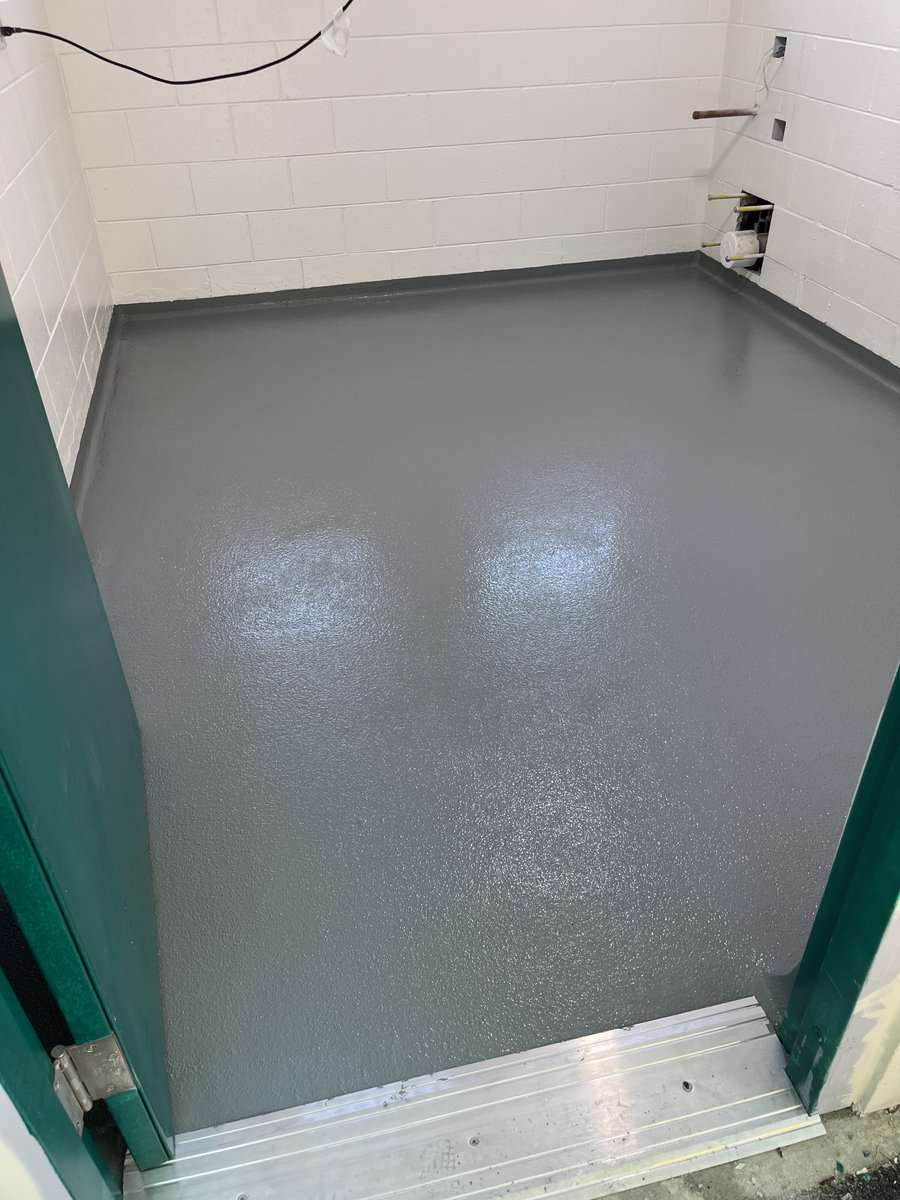
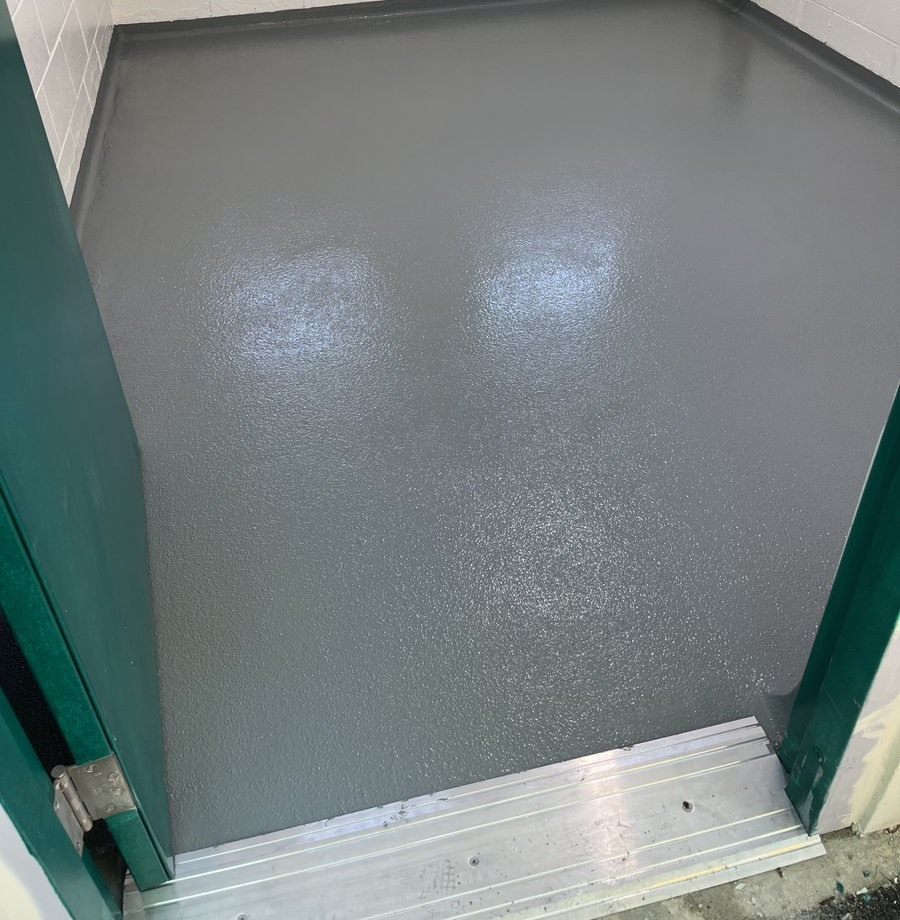
Crop project images for clean presentation, add Interactive Flooring System Spec Finder, and upgrade URL spec pre-fill

diff --git a/services.html b/services.html
@@ -80,10 +80,140 @@
                 From high-capacity manufacturing facilities and logistics warehouses to commercial showrooms and residential garages, LionStone Floors installs seamless resinous systems engineered for extreme compressive strength, chemical containment, and rapid return to service nationwide.
             </p>
             <div style="display: flex; justify-content: center; gap: 15px; flex-wrap: wrap;">
+                <a href="#system-spec-finder" class="btn-ls-primary" style="font-size: 13px !important; padding: 10px 22px !important;"><i class="fas fa-sliders-h"></i> Interactive Spec Finder</a>
                 <a href="#industrial-flooring" class="btn-ls-secondary" style="font-size: 13px !important; padding: 10px 20px !important;">Industrial Systems</a>
                 <a href="#commercial-specialty" class="btn-ls-secondary" style="font-size: 13px !important; padding: 10px 20px !important;">Logistics & Cleanrooms</a>
                 <a href="#commercial-retail" class="btn-ls-secondary" style="font-size: 13px !important; padding: 10px 20px !important;">Commercial Facilities</a>
                 <a href="#residential-garage" class="btn-ls-secondary" style="font-size: 13px !important; padding: 10px 20px !important;">Automotive & Garages</a>
+            </div>
+        </div>
+    </section>
+
+    <!-- Interactive Engineering & System Specification Selector -->
+    <section id="system-spec-finder" style="padding: 70px 20px; background: var(--ls-bg-light); border-bottom: 1px solid var(--ls-border);">
+        <div class="container" style="max-width: 1150px; margin: 0 auto; text-align: center;">
+            <span style="color: var(--ls-accent); font-size: 13px; font-weight: 800; text-transform: uppercase; letter-spacing: 0.1em;">Technical Specification Guide</span>
+            <h2 style="font-size: 36px; margin: 10px 0 14px 0;">Interactive Flooring System Spec Finder</h2>
+            <p style="color: var(--ls-text-muted); max-width: 700px; margin: 0 auto;">
+                Select your facility environment or operating conditions below to inspect recommended surface preparation profiles, build thickness, compressive ratings, and resinous chemistry.
+            </p>
+
+            <div class="spec-selector-card" id="lionstone-spec-selector">
+                <div class="spec-env-tabs">
+                    <button type="button" class="spec-env-btn active"
+                        data-title="Heavy Manufacturing & Forklift System"
+                        data-badge="Industrial High-Build Epoxy / Polyurethane"
+                        data-desc="Engineered for heavy manufacturing plants, warehousing aisles, and assembly lines subject to continuous forklift traffic, steel-wheel point loads, and heavy mechanical impact."
+                        data-prep="CSP 3–4 Planetary Diamond Grind / Shot Blast"
+                        data-thickness="40 – 125 mils (Multi-Coat High-Build)"
+                        data-compressive="10,500+ PSI (ASTM C579)"
+                        data-cure="24–36 Hours Full Mechanical Load"
+                        data-chemistry="100% Solids Cycloaliphatic Epoxy + Aliphatic Urethane Topcoat"
+                        data-apps="Manufacturing Plants, Distribution Hubs, Machine Shops, Assembly Bays">
+                        <i class="fas fa-industry"></i> Heavy Manufacturing & Forklift
+                    </button>
+
+                    <button type="button" class="spec-env-btn"
+                        data-title="Chemical, Acid & Pharma Containment"
+                        data-badge="Novolac Epoxy & Seamless Cleanroom System"
+                        data-desc="Formulated for extreme chemical resistance against concentrated acids, caustics, aviation hydraulic fluids, solvents, and continuous cleanroom sanitization protocols."
+                        data-prep="CSP 3–5 Diamond Grind + Trench / Joint Mending"
+                        data-thickness="60 – 180 mils + Integral 4&quot;–6&quot; Radius Coving"
+                        data-compressive="11,200+ PSI (High Cross-Link Density)"
+                        data-cure="24–48 Hours Chemical Immersion Ready"
+                        data-chemistry="100% Solids Novolac Epoxy + Chemical-Resistant Urethane"
+                        data-apps="Pharmaceutical Labs, Battery Plants, Chemical Storage, Aviation Hangars">
+                        <i class="fas fa-flask"></i> Chemical & Cleanroom
+                    </button>
+
+                    <button type="button" class="spec-env-btn"
+                        data-title="Food, Beverage & Thermal Shock (USDA/FDA)"
+                        data-badge="Cementitious Urethane Mortar System"
+                        data-desc="Monolithic, antimicrobial thermal-shock flooring built to withstand 212°F+ live steam washdowns, freeze-thaw cycling, organic acids, and heavy washdown slopes."
+                        data-prep="CSP 4–6 Heavy Shot Blast & Keyed Terminations"
+                        data-thickness="3/16&quot; to 3/8&quot; (187 – 375 mils) Slurry / Mortar"
+                        data-compressive="9,200+ PSI (Thermal Coefficient Matched to Concrete)"
+                        data-cure="8–16 Hours Rapid Return to Service"
+                        data-chemistry="Three-Component Cementitious Urethane + Quartz Broadcast"
+                        data-apps="Food & Beverage Processing, Cold Storage, Breweries, Commercial Commissaries">
+                        <i class="fas fa-temperature-low"></i> Thermal Shock & USDA/FDA
+                    </button>
+
+                    <button type="button" class="spec-env-btn"
+                        data-title="Commercial Retail, Stairwells & Concourses"
+                        data-badge="Architectural Quartz & Designer Metallic"
+                        data-desc="High-traction safety quartz systems for multi-tier commercial stairwells and exterior access ramps, plus seamless architectural metallic and terrazzo-flake finishes for showrooms."
+                        data-prep="CSP 2–3 Dustless HEPA Diamond Grind"
+                        data-thickness="35 – 80 mils + OSHA Safety Nosing / Anti-Slip Grit"
+                        data-compressive="9,500+ PSI High-Abrasion Wear Layer"
+                        data-cure="12–24 Hours Foot Traffic Ready"
+                        data-chemistry="100% Solids Epoxy Base + UV-Stable Polyaspartic Clearcoat"
+                        data-apps="Commercial Stair Towers, Retail Storefronts, Schools, Healthcare Corridors">
+                        <i class="fas fa-building"></i> Commercial & Stair Towers
+                    </button>
+
+                    <button type="button" class="spec-env-btn"
+                        data-title="Automotive Bays & Residential Garages"
+                        data-badge="Full-Broadcast Polyaspartic Flake System"
+                        data-desc="Showroom-grade full-refusal vinyl flake broadcast locked beneath UV-stable polyaspartic topcoats. Impervious to hot-tire pickup, road salts, automotive fluids, and impact."
+                        data-prep="CSP 2–3 Diamond Grind + Elastomeric Crack Fill"
+                        data-thickness="35 – 50 mils (100% Refusal Flake Broadcast)"
+                        data-compressive="8,800+ PSI / Zero Hot-Tire Delamination"
+                        data-cure="Rapid Cure — Light Foot Traffic in 4–6 Hours"
+                        data-chemistry="Moisture-Mitigating Primer + 100% UV-Stable Polyaspartic"
+                        data-apps="Residential Garages, Auto Dealership Service Bays, Fleet Maintenance Shops">
+                        <i class="fas fa-car"></i> Automotive & Garages
+                    </button>
+                </div>
+
+                <div class="spec-body-grid">
+                    <div>
+                        <span id="spec-sys-badge" style="display: inline-block; background: rgba(206, 3, 40, 0.1); color: var(--ls-accent); font-size: 12px; font-weight: 800; padding: 5px 12px; border-radius: 20px; text-transform: uppercase; letter-spacing: 0.05em; margin-bottom: 12px;">
+                            Industrial High-Build Epoxy / Polyurethane
+                        </span>
+                        <h3 id="spec-sys-title" style="font-size: 26px; margin: 0 0 14px 0; color: var(--ls-primary);">
+                            Heavy Manufacturing & Forklift System
+                        </h3>
+                        <p id="spec-sys-desc" style="font-size: 15px; line-height: 1.65; color: var(--ls-text-muted); margin-bottom: 24px;">
+                            Engineered for heavy manufacturing plants, warehousing aisles, and assembly lines subject to continuous forklift traffic, steel-wheel point loads, and heavy mechanical impact.
+                        </p>
+                        <div style="display: flex; gap: 12px; flex-wrap: wrap;">
+                            <a id="spec-cta-btn" href="./contact.html?system=Heavy%20Manufacturing%20%26%20Forklift%20System" class="btn-ls-primary" style="font-size: 13px !important; padding: 12px 24px !important;">
+                                <i class="fas fa-file-signature"></i> Request Quote for This Spec
+                            </a>
+                            <a href="tel:8608050061" class="header-phone-badge" style="padding: 10px 18px;">
+                                <i class="fas fa-phone-alt"></i> Speak With Engineering
+                            </a>
+                        </div>
+                    </div>
+
+                    <div class="spec-metrics-grid">
+                        <div class="spec-metric-box">
+                            <span class="spec-metric-label"><i class="fas fa-drafting-compass" style="color: var(--ls-accent); margin-right: 4px;"></i> Surface Prep Profile</span>
+                            <div id="spec-val-prep" class="spec-metric-value">CSP 3–4 Planetary Diamond Grind / Shot Blast</div>
+                        </div>
+                        <div class="spec-metric-box">
+                            <span class="spec-metric-label"><i class="fas fa-layer-group" style="color: var(--ls-accent); margin-right: 4px;"></i> System Build Thickness</span>
+                            <div id="spec-val-thickness" class="spec-metric-value">40 – 125 mils (Multi-Coat High-Build)</div>
+                        </div>
+                        <div class="spec-metric-box">
+                            <span class="spec-metric-label"><i class="fas fa-dumbbell" style="color: var(--ls-accent); margin-right: 4px;"></i> Compressive Strength</span>
+                            <div id="spec-val-compressive" class="spec-metric-value">10,500+ PSI (ASTM C579)</div>
+                        </div>
+                        <div class="spec-metric-box">
+                            <span class="spec-metric-label"><i class="fas fa-clock" style="color: var(--ls-accent); margin-right: 4px;"></i> Return to Service</span>
+                            <div id="spec-val-cure" class="spec-metric-value">24–36 Hours Full Mechanical Load</div>
+                        </div>
+                        <div class="spec-metric-box" style="grid-column: 1 / -1;">
+                            <span class="spec-metric-label"><i class="fas fa-vial" style="color: var(--ls-accent); margin-right: 4px;"></i> Resinous Architecture</span>
+                            <div id="spec-val-chemistry" class="spec-metric-value">100% Solids Cycloaliphatic Epoxy + Aliphatic Urethane Topcoat</div>
+                        </div>
+                        <div class="spec-metric-box" style="grid-column: 1 / -1;">
+                            <span class="spec-metric-label"><i class="fas fa-check-double" style="color: #10B981; margin-right: 4px;"></i> Primary Facility Applications</span>
+                            <div id="spec-val-apps" class="spec-metric-value">Manufacturing Plants, Distribution Hubs, Machine Shops, Assembly Bays</div>
+                        </div>
+                    </div>
+                </div>
             </div>
         </div>
     </section>

diff --git a/assets/js/interactive_features.js b/assets/js/interactive_features.js
@@ -6,6 +6,7 @@
 document.addEventListener('DOMContentLoaded', function() {
     initBeforeAfterSliders();
     initColorFlakeVisualizer();
+    initSystemSpecSelector();
     initStickyMobileBar();
     initGalleryFilters();
 });
@@ -151,6 +152,56 @@ function initColorFlakeVisualizer() {
 }
 
 /* ==========================================================================
+   3b. Engineering & System Specification Selector
+   ========================================================================== */
+function initSystemSpecSelector() {
+    const selectorContainer = document.getElementById('lionstone-spec-selector');
+    if (!selectorContainer) return;
+
+    const specTabs = selectorContainer.querySelectorAll('.spec-env-btn');
+    const elTitle = document.getElementById('spec-sys-title');
+    const elBadge = document.getElementById('spec-sys-badge');
+    const elDesc = document.getElementById('spec-sys-desc');
+    const elPrep = document.getElementById('spec-val-prep');
+    const elThickness = document.getElementById('spec-val-thickness');
+    const elCompressive = document.getElementById('spec-val-compressive');
+    const elCure = document.getElementById('spec-val-cure');
+    const elChemistry = document.getElementById('spec-val-chemistry');
+    const elApps = document.getElementById('spec-val-apps');
+    const elCta = document.getElementById('spec-cta-btn');
+
+    specTabs.forEach(btn => {
+        btn.addEventListener('click', function() {
+            specTabs.forEach(b => b.classList.remove('active'));
+            this.classList.add('active');
+
+            const title = this.getAttribute('data-title');
+            const badge = this.getAttribute('data-badge');
+            const desc = this.getAttribute('data-desc');
+            const prep = this.getAttribute('data-prep');
+            const thickness = this.getAttribute('data-thickness');
+            const compressive = this.getAttribute('data-compressive');
+            const cure = this.getAttribute('data-cure');
+            const chemistry = this.getAttribute('data-chemistry');
+            const apps = this.getAttribute('data-apps');
+
+            if (elTitle && title) elTitle.textContent = title;
+            if (elBadge && badge) elBadge.textContent = badge;
+            if (elDesc && desc) elDesc.textContent = desc;
+            if (elPrep && prep) elPrep.textContent = prep;
+            if (elThickness && thickness) elThickness.textContent = thickness;
+            if (elCompressive && compressive) elCompressive.textContent = compressive;
+            if (elCure && cure) elCure.textContent = cure;
+            if (elChemistry && chemistry) elChemistry.textContent = chemistry;
+            if (elApps && apps) elApps.textContent = apps;
+            if (elCta && title) {
+                elCta.href = `./contact.html?system=${encodeURIComponent(title)}`;
+            }
+        });
+    });
+}
+
+/* ==========================================================================
    4. Sticky Mobile Action Bar
    ========================================================================== */
 function initStickyMobileBar() {
@@ -163,9 +214,9 @@ function initStickyMobileBar() {
                 <svg width="18" height="18" viewBox="0 0 24 24" fill="currentColor"><path d="M6.62 10.79c1.44 2.83 3.76 5.14 6.59 6.59l2.2-2.2c.27-.27.67-.36 1.02-.24 1.12.37 2.33.57 3.57.57.55 0 1 .45 1 1V20c0 .55-.45 1-1 1-9.39 0-17-7.61-17-17 0-.55.45-1 1-1h3.5c.55 0 1 .45 1 1 0 1.25.2 2.45.57 3.57.11.35.03.74-.25 1.02l-2.2 2.2z"/></svg>
                 <span>Call (860) 805-0061</span>
             </a>
-            <a href="./contact.html" class="sticky-btn sticky-btn-estimate" aria-label="Request Free Estimate">
+            <a href="./contact.html" class="sticky-btn sticky-btn-estimate" aria-label="Request Quote">
                 <svg width="18" height="18" viewBox="0 0 24 24" fill="none" stroke="currentColor" stroke-width="2"><path d="M9 11l3 3L22 4"/><path d="M21 12v7a2 2 0 0 1-2 2H5a2 2 0 0 1-2-2V5a2 2 0 0 1 2-2h11"/></svg>
-                <span>Free Estimate</span>
+                <span>Request Quote</span>
             </a>
         </div>
     `;

diff --git a/assets/js/form_handler.js b/assets/js/form_handler.js
@@ -91,16 +91,40 @@ document.addEventListener('DOMContentLoaded', function() {
         });
     });
 
-    // 3. Handle auto-population from URL parameters (e.g. from service pages or Swatch Visualizer)
+    // 3. Handle auto-population from URL parameters (e.g. from service pages, Spec Selector, or Swatch Visualizer)
     const urlParams = new URLSearchParams(window.location.search);
     const messageInput = document.getElementById('form-message-input') || document.querySelector('textarea[name="message"]');
-    if (messageInput) {
-        if (urlParams.has('system')) {
-            const system = urlParams.get('system') || 'Full Flake Polyaspartic';
-            messageInput.value = `[Inquiry] Interested in: ${system}\nPlease schedule an in-home inspection and bring physical samples.`;
-        } else if (urlParams.has('sample')) {
-            const sample = urlParams.get('sample');
-            messageInput.value = `[Sample Request] Requested Color/Texture Swatch: ${sample}\nPlease bring this physical sample to our in-home consultation.`;
+    const projectTypeSelect = document.getElementById('form-project-type') || document.querySelector('select[name="project_type"]');
+
+    if (urlParams.has('system')) {
+        const system = urlParams.get('system') || 'Industrial Resinous Coating';
+        if (messageInput) {
+            messageInput.value = `[System Specification Inquiry]: ${system}\nRequesting project evaluation and formal quote.`;
+        }
+        if (projectTypeSelect) {
+            const sysLower = system.toLowerCase();
+            if (sysLower.includes('warehouse') || sysLower.includes('logistics')) {
+                projectTypeSelect.value = 'Warehouse / Logistics';
+            } else if (sysLower.includes('cleanroom') || sysLower.includes('food') || sysLower.includes('urethane') || sysLower.includes('sanitary')) {
+                projectTypeSelect.value = 'Food & Beverage / Cleanroom';
+            } else if (sysLower.includes('stair') || sysLower.includes('walkway') || sysLower.includes('stain')) {
+                projectTypeSelect.value = 'Stairwell / Walkway Safety';
+            } else if (sysLower.includes('commercial') || sysLower.includes('retail') || sysLower.includes('metallic')) {
+                projectTypeSelect.value = 'Commercial Facility';
+            } else if (sysLower.includes('automotive') || sysLower.includes('fleet')) {
+                projectTypeSelect.value = 'Automotive / Fleet Bays';
+            } else if (sysLower.includes('garage') || sysLower.includes('flake')) {
+                projectTypeSelect.value = 'Garage Flake Floor';
+            } else if (sysLower.includes('basement') || sysLower.includes('moisture')) {
+                projectTypeSelect.value = 'Basement Floor';
+            } else {
+                projectTypeSelect.value = 'Manufacturing Facility';
+            }
+        }
+    } else if (urlParams.has('sample')) {
+        const sample = urlParams.get('sample');
+        if (messageInput) {
+            messageInput.value = `[Color / Texture Sample Inquiry]: ${sample}\nRequesting system specifications and formal project quote.`;
         }
     }
 });

diff --git a/assets/css/customstyle.css b/assets/css/customstyle.css
@@ -872,3 +872,101 @@ h1, h2, h3, h4, h5, h6 {
 .lionstone-modal-overlay.active .lionstone-modal {
     transform: scale(1);
 }
+
+/* ==========================================================================
+   Interactive Engineering & System Specification Selector
+   ========================================================================== */
+.spec-selector-card {
+    background: #FFFFFF;
+    border-radius: var(--ls-radius-lg);
+    border: 1px solid var(--ls-border);
+    box-shadow: var(--ls-shadow-lg);
+    overflow: hidden;
+    margin-top: 30px;
+}
+
+.spec-env-tabs {
+    display: flex;
+    flex-wrap: wrap;
+    background: #0F172A;
+    padding: 12px 16px;
+    gap: 8px;
+    justify-content: center;
+    border-bottom: 1px solid rgba(255, 255, 255, 0.1);
+}
+
+.spec-env-btn {
+    background: rgba(255, 255, 255, 0.06);
+    border: 1px solid rgba(255, 255, 255, 0.14);
+    color: #CBD5E1;
+    padding: 10px 18px;
+    border-radius: 25px;
+    font-size: 13px;
+    font-weight: 700;
+    cursor: pointer;
+    transition: all 0.22s ease;
+    display: inline-flex;
+    align-items: center;
+    gap: 8px;
+}
+
+.spec-env-btn:hover {
+    background: rgba(255, 255, 255, 0.14);
+    color: #FFFFFF;
+}
+
+.spec-env-btn.active {
+    background: var(--ls-accent);
+    border-color: var(--ls-accent);
+    color: #FFFFFF;
+    box-shadow: 0 4px 14px rgba(206, 3, 40, 0.4);
+}
+
+.spec-body-grid {
+    display: grid;
+    grid-template-columns: 1.15fr 1.35fr;
+    gap: 35px;
+    padding: 36px 40px;
+    align-items: center;
+    text-align: left;
+}
+
+.spec-metrics-grid {
+    display: grid;
+    grid-template-columns: 1fr 1fr;
+    gap: 14px;
+}
+
+.spec-metric-box {
+    background: var(--ls-bg-light);
+    border: 1px solid var(--ls-border);
+    border-radius: 10px;
+    padding: 14px 16px;
+}
+
+.spec-metric-label {
+    display: block;
+    font-size: 11px;
+    font-weight: 800;
+    text-transform: uppercase;
+    letter-spacing: 0.06em;
+    color: var(--ls-text-muted);
+    margin-bottom: 4px;
+}
+
+.spec-metric-value {
+    font-size: 14px;
+    font-weight: 700;
+    color: var(--ls-primary);
+    line-height: 1.4;
+}
+
+@media (max-width: 820px) {
+    .spec-body-grid {
+        grid-template-columns: 1fr;
+        padding: 24px 20px;
+    }
+    .spec-metrics-grid {
+        grid-template-columns: 1fr;
+    }
+}
